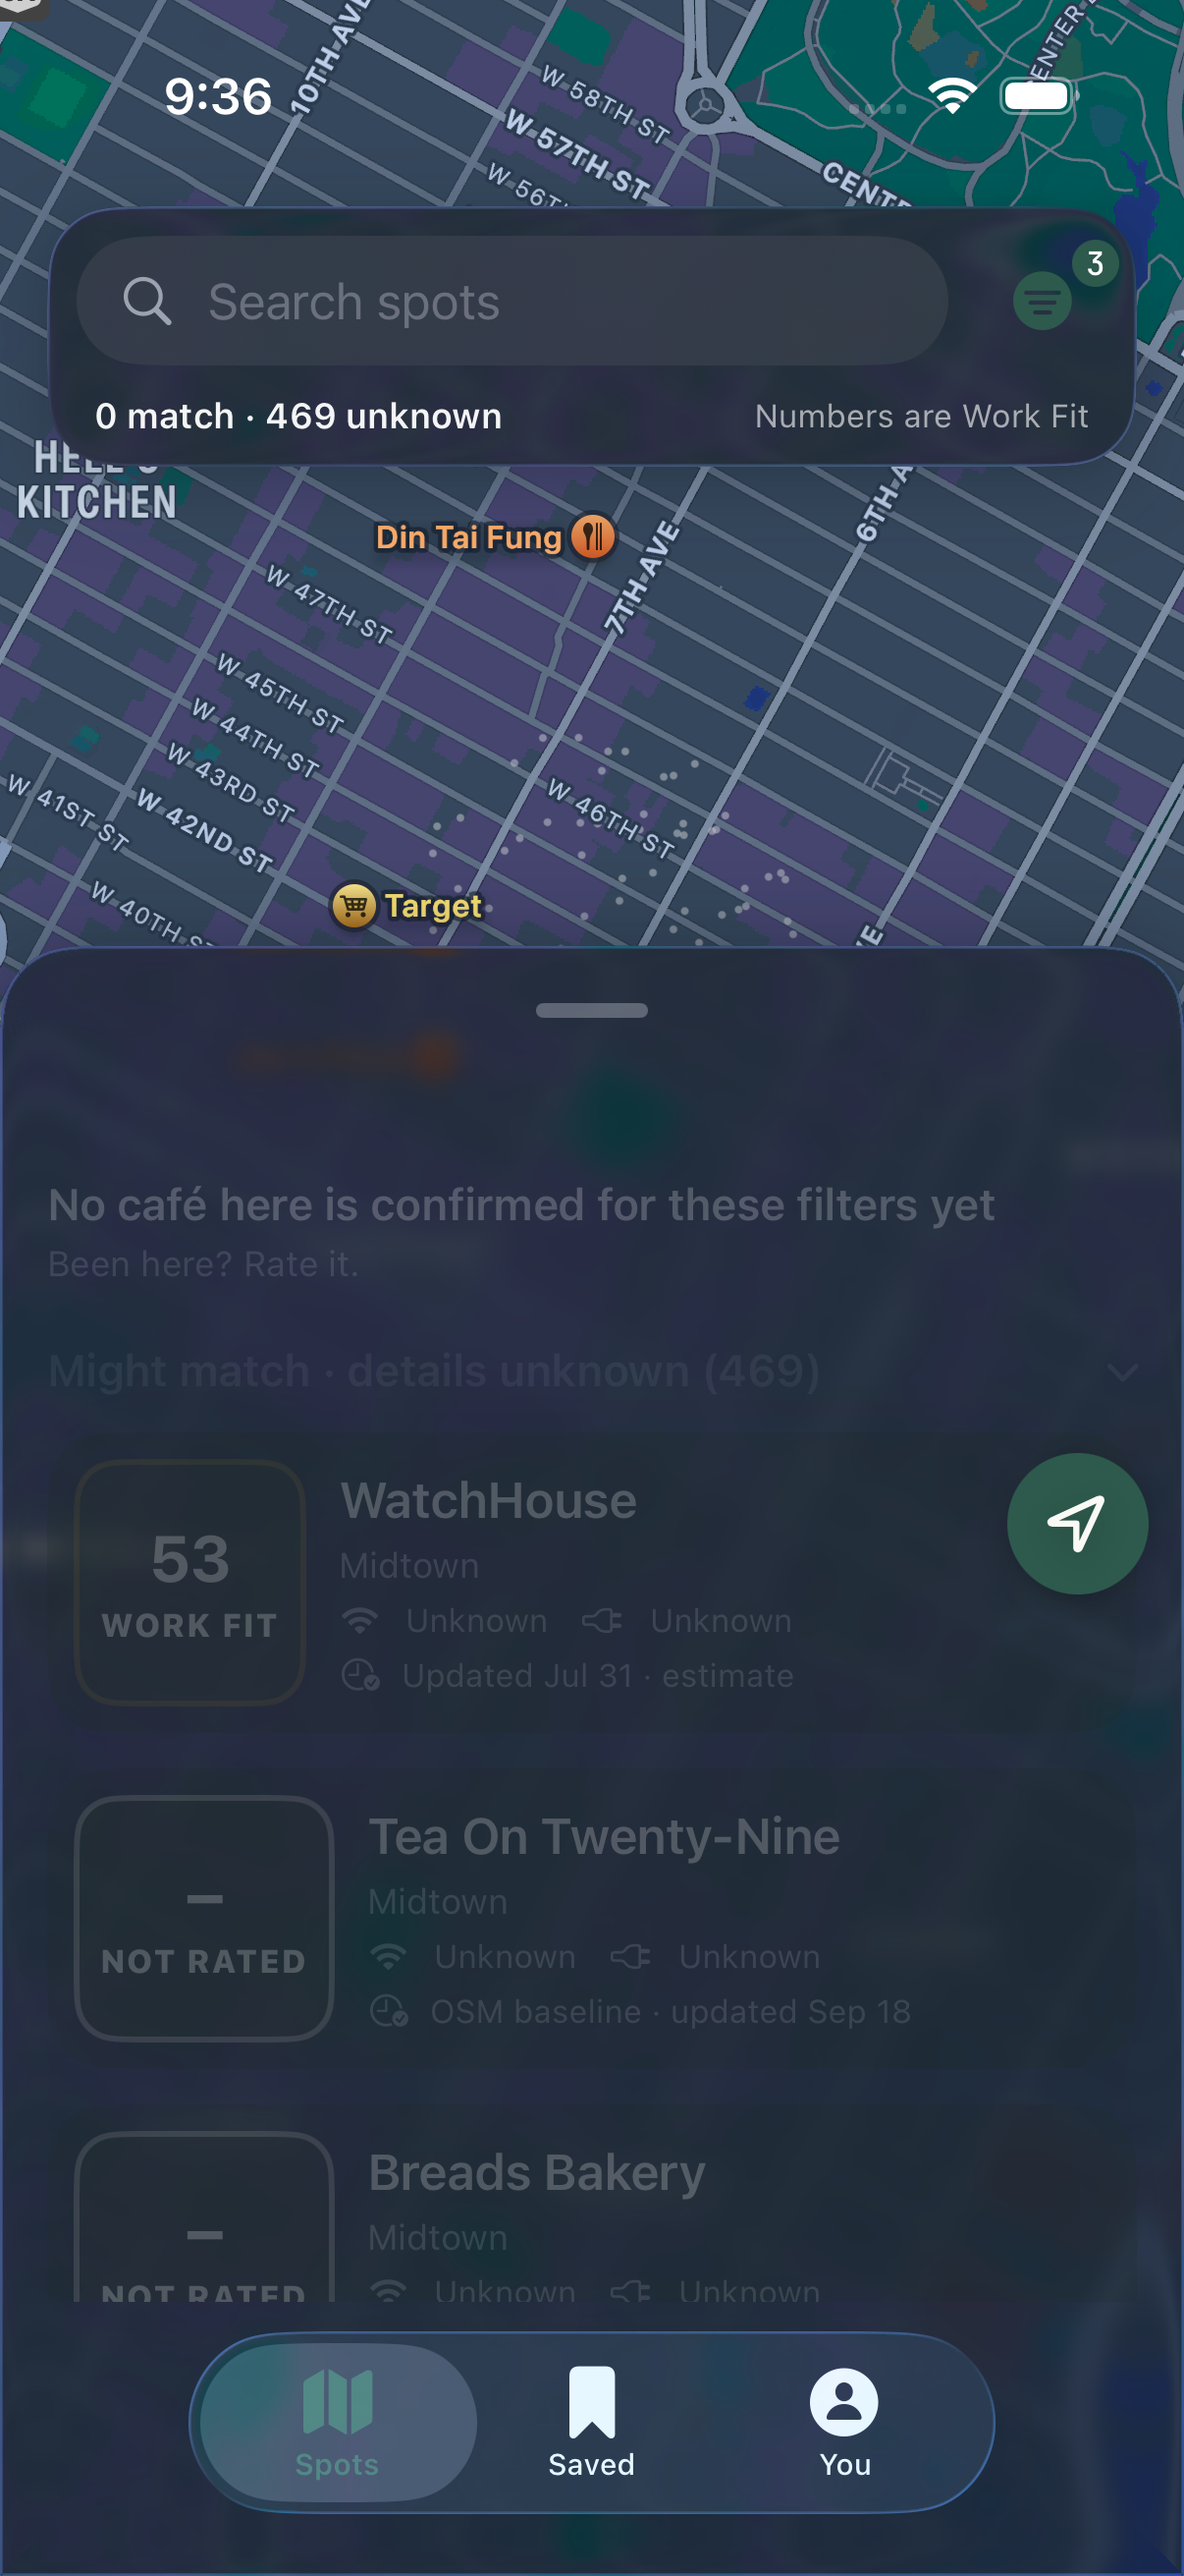
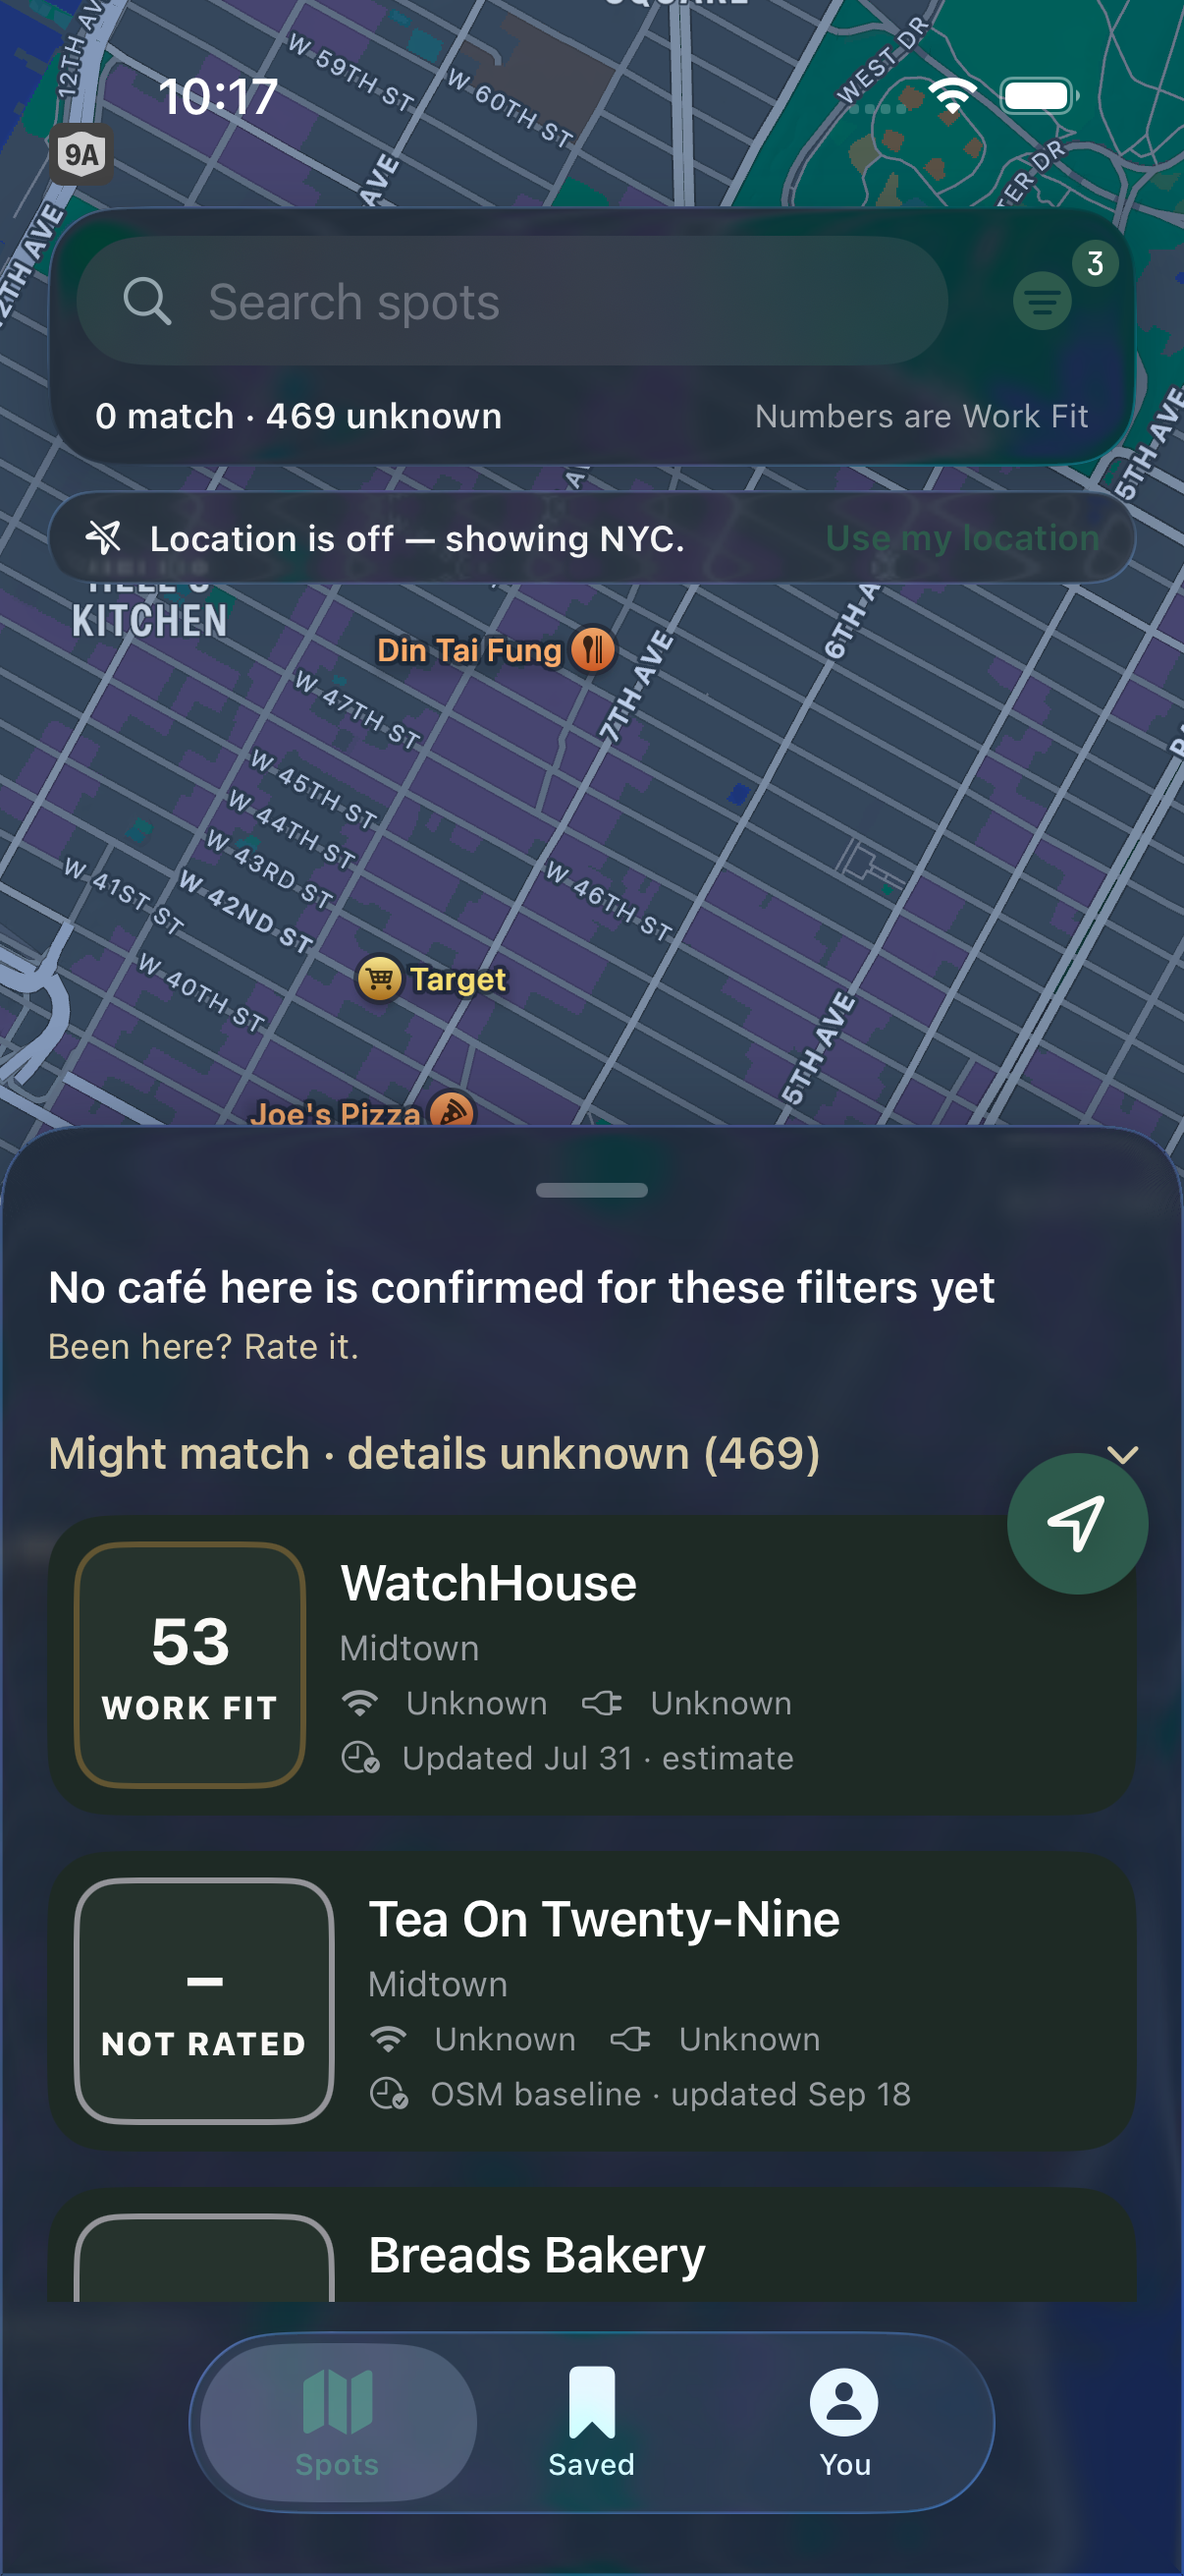
fix: dark-mode contrast on the filtered shelf sections (PR #226 review)
Supervisor review of the PR #226 dark screenshot flagged the shelf
reading uniformly dimmed. Investigated both hypotheses the review raised:

1. Capture timing: retook with wait >= 2s after the filter settled AND
   after the shelf-drag-to-full gesture, at 1s/2s/4s/8s cumulative waits —
   all four were already crisp, ruling out a fade-in capture race.
2. Real contrast bug: `app.performAccessibilityAudit(for: .contrast)`
   (Apple's own audit, already used elsewhere in this suite) DID catch a
   real issue once scoped past two pre-existing, unrelated low-contrast
   elements (the "ENV: Localhost" debug badge and bd#212's "Numbers are
   Work Fit" caption, both exempted the same way the existing
   `testLaunchAccessibilityAudit` exempts its own known strings) — the new
   section headers ("Matches your filters (N)", "Might match · details
   unknown (M)") used the system `.secondary` style, which doesn't clear
   contrast against this app's custom translucent glass card in dark mode.
   Compounding it: the unknown-section toggle was `.disabled(...)`
   whenever the confirmed section was empty (nothing to collapse to) —
   SwiftUI applies an automatic reduced-opacity treatment to a disabled
   control regardless of `.buttonStyle(.plain)` or an explicit
   `.foregroundStyle`, which is exactly the screenshot's scenario (the
   Midtown filter combination that returns 0 confirmed matches).

Fix:
- DiscoveryShelfCard: the four `.foregroundStyle(.secondary)` uses in the
[…]

diff --git a/BrewDeskUITests/FilterUITests.swift b/BrewDeskUITests/FilterUITests.swift
@@ -194,6 +194,56 @@ final class FilterUITests: XCTestCase {
             unknownSection.buttons.matching(NSPredicate(format: "label BEGINSWITH %@", "Fixture Slow WiFi Cafe,")).firstMatch.exists,
             "excluded café leaked into the unknown section"
         )
+
+        // Supervisor follow-up (PR #226 dark-mode review): a screenshot
+        // caught the shelf uniformly dimmed once, and it wasn't clear
+        // whether that was a real `.disabled`/`.opacity` contrast bug on
+        // the new sections or a one-off capture-during-fade-in. Two
+        // independent checks against the CURRENT rendered state, neither
+        // dependent on screenshot timing luck: `.contrast` is Apple's own
+        // audit for exactly this class of bug (already used elsewhere in
+        // this suite — `BrewDeskUITests.testLaunchAccessibilityAudit`); the
+        // luminance stability check is the closest XCUITest gets to
+        // "opacity == 1" directly — no public API reads rendered opacity,
+        // so this compares the SAME element's on-screen pixels moments
+        // apart and asserts they match, which a still-settling fade
+        // (opacity < 1, animating toward 1) would fail.
+        try assertSettledOpacity(unknownSection.buttons.matching(
+            NSPredicate(format: "label BEGINSWITH %@", "Fixture Unknown WiFi Cafe,")
+        ).firstMatch, label: "unknown row title")
+        // "ENV: Localhost" is a pre-existing debug-only badge
+        // (DiscoveryRootView) shown whenever a UI test launches without
+        // pinning production — unrelated to this ticket's sections, and
+        // already low-contrast-by-design on `main`; exempted the same way
+        // `BrewDeskUITests.testLaunchAccessibilityAudit` exempts its own
+        // known pre-existing strings.
+        try app.performAccessibilityAudit(for: .contrast) { issue in
+            // "Numbers are Work Fit" (CafeMapScreen's map-header caption,
+            // bd#212) is the OTHER pre-existing low-contrast element this
+            // audit turns up here — also unrelated to this ticket's
+            // sections, also already this way on `main`.
+            issue.element?.label == "ENV: Localhost" || issue.element?.label == "Numbers are Work Fit"
+        }
+    }
+
+    /// Samples an element's on-screen luminance twice, `settleDelay`
+    /// apart, and asserts they match within `tolerance` — see
+    /// `XCUIElement.averageLuminance()`'s own doc comment for why this
+    /// stands in for "opacity == 1, not still fading" here.
+    @MainActor
+    private func assertSettledOpacity(
+        _ element: XCUIElement, label: String, tolerance: Double = 6,
+        file: StaticString = #filePath, line: UInt = #line
+    ) throws {
+        XCTAssertTrue(element.waitForExistence(timeout: wait), "\(label) missing", file: file, line: line)
+        let first = try XCTUnwrap(element.averageLuminance(), "\(label): couldn't sample luminance", file: file, line: line)
+        Thread.sleep(forTimeInterval: 1.0)
+        let second = try XCTUnwrap(element.averageLuminance(), "\(label): couldn't re-sample luminance", file: file, line: line)
+        XCTAssertEqual(
+            first, second, accuracy: tolerance,
+            "\(label) is still changing brightness a second later (\(first) -> \(second)) — looks like it's still fading in, not settled at full opacity",
+            file: file, line: line
+        )
     }
 
     /// `filterHonestyVenues`' confirmed café is known-SCARCE on outlets, so
@@ -222,11 +272,37 @@ final class FilterUITests: XCTestCase {
 
         // The unknown section is FORCED open (nothing confirmed to hide
         // behind) — no toggle tap needed to see the unknown café.
+        let unknownRow = app.buttons.matching(NSPredicate(format: "label BEGINSWITH %@", "Fixture Unknown WiFi Cafe,")).firstMatch
         XCTAssertTrue(
-            app.buttons.matching(NSPredicate(format: "label BEGINSWITH %@", "Fixture Unknown WiFi Cafe,")).firstMatch
-                .waitForExistence(timeout: wait),
+            unknownRow.waitForExistence(timeout: wait),
             "unknown section should already be expanded when confirmed is empty"
         )
+
+        // Supervisor follow-up (PR #226 dark-mode review): this is EXACTLY
+        // the screenshot's scenario — confirmed empty, the unknown toggle
+        // `.disabled(true)` (nothing to collapse to). That's the one
+        // control in this feature that's deliberately non-default-opacity
+        // in its DISABLED trait; the surrounding TEXT (the empty-state
+        // copy and the unknown row's own title) must still read at full,
+        // settled opacity — see `assertSettledOpacity`'s doc comment.
+        try assertSettledOpacity(
+            confirmedSection.staticTexts["No café here is confirmed for these filters yet"],
+            label: "confirmed-empty header"
+        )
+        try assertSettledOpacity(unknownRow, label: "unknown row title")
+        // "ENV: Localhost" is a pre-existing debug-only badge
+        // (DiscoveryRootView) shown whenever a UI test launches without
+        // pinning production — unrelated to this ticket's sections, and
+        // already low-contrast-by-design on `main`; exempted the same way
+        // `BrewDeskUITests.testLaunchAccessibilityAudit` exempts its own
+        // known pre-existing strings.
+        try app.performAccessibilityAudit(for: .contrast) { issue in
+            // "Numbers are Work Fit" (CafeMapScreen's map-header caption,
+            // bd#212) is the OTHER pre-existing low-contrast element this
+            // audit turns up here — also unrelated to this ticket's
+            // sections, also already this way on `main`.
+            issue.element?.label == "ENV: Localhost" || issue.element?.label == "Numbers are Work Fit"
+        }
     }
 
     @MainActor

diff --git a/Packages/BrewDeskKit/Sources/BrewDeskKit/DiscoveryShelfCard.swift b/Packages/BrewDeskKit/Sources/BrewDeskKit/DiscoveryShelfCard.swift
@@ -554,7 +554,7 @@ struct DiscoveryShelfCard: View {
             } else {
                 Text("Matches your filters (\(model.confirmedVenues.count))")
                     .font(.subheadline.bold())
-                    .foregroundStyle(.secondary)
+                    .foregroundStyle(BrewDeskPalette.secondaryText)
                     .accessibilityAddTraits(.isHeader)
                 ForEach(model.confirmedVenues) { venue in
                     venueButton(venue, fillsWidth: true)
@@ -583,7 +583,7 @@ struct DiscoveryShelfCard: View {
                 .font(.subheadline.weight(.semibold))
             Text("Been here? Rate it.")
                 .font(.caption)
-                .foregroundStyle(.secondary)
+                .foregroundStyle(BrewDeskPalette.secondaryText)
         }
         .frame(maxWidth: .infinity, alignment: .leading)
     }
@@ -593,22 +593,33 @@ struct DiscoveryShelfCard: View {
         if !model.unknownVenues.isEmpty {
             VStack(alignment: .leading, spacing: 12) {
                 Button {
+                    // bd#222 (supervisor follow-up, PR #226 dark-mode
+                    // review): a no-op tap when there's nothing to collapse
+                    // TO, rather than `.disabled(...)` — SwiftUI applies an
+                    // automatic reduced-opacity treatment to a disabled
+                    // control regardless of `.buttonStyle(.plain)` or an
+                    // explicit `.foregroundStyle`, which read as the whole
+                    // row being dimmed (caught by
+                    // `.performAccessibilityAudit(for: .contrast)`, added
+                    // alongside this fix). The row stays fully interactive
+                    // and fully legible; it just has nothing to do while
+                    // the confirmed section is empty.
+                    guard !model.confirmedVenues.isEmpty else { return }
                     FilterUnknownSectionMemory.session.isExpanded.toggle()
                 } label: {
                     HStack {
                         Text("Might match · details unknown (\(model.unknownVenues.count))")
                             .font(.subheadline.bold())
-                            .foregroundStyle(.secondary)
+                            .foregroundStyle(BrewDeskPalette.secondaryText)
                         Spacer(minLength: 8)
                         Image(systemName: "chevron.right")
                             .font(.caption.bold())
-                            .foregroundStyle(.secondary)
+                            .foregroundStyle(BrewDeskPalette.secondaryText)
                             .rotationEffect(.degrees(isUnknownSectionExpanded ? 90 : 0))
                     }
                     .contentShape(Rectangle())
                 }
                 .buttonStyle(.plain)
-                .disabled(model.confirmedVenues.isEmpty)
                 .accessibilityAddTraits(.isHeader)
                 .accessibilityIdentifier("filter-unknown-toggle")
                 .accessibilityValue(isUnknownSectionExpanded ? "Expanded" : "Collapsed")

diff --git a/BrewDeskUITests/UITestHelpers.swift b/BrewDeskUITests/UITestHelpers.swift
@@ -85,6 +85,57 @@ extension XCUIApplication {
 }
 
 extension XCUIElement {
+    /// brewdesk#222 (supervisor follow-up): XCUITest has no public API for
+    /// an element's rendered opacity — the practical proxy is "does this
+    /// element's on-screen pixels look the same a moment after it first
+    /// presented as they do once fully settled". Averages luminance over
+    /// the element's own frame (converted from POINTS to the screenshot's
+    /// native PIXEL space via the window's own frame) in a freshly taken
+    /// screenshot. A text element mid-fade (opacity < 1, still animating
+    /// toward 1) reads measurably darker against a dark background — or
+    /// lighter against a light one — than its settled value; comparing two
+    /// samples taken `settleDelay` apart catches that without needing a
+    /// theme-specific absolute brightness threshold.
+    func averageLuminance() -> Double? {
+        guard exists, !frame.isEmpty else { return nil }
+        let screenshot = XCUIScreen.main.screenshot().image
+        guard let windowFrame = XCUIApplication().windows.firstMatch.frame as CGRect?,
+              windowFrame.width > 0
+        else { return nil }
+        let scale = screenshot.size.width / windowFrame.width
+        let pixelRect = CGRect(
+            x: frame.origin.x * scale, y: frame.origin.y * scale,
+            width: frame.width * scale, height: frame.height * scale
+        )
+        guard let cgImage = screenshot.cgImage,
+              let cropped = cgImage.cropping(to: pixelRect)
+        else { return nil }
+        return Self.averageLuminance(of: cropped)
+    }
+
+    private static func averageLuminance(of cgImage: CGImage) -> Double? {
+        let width = cgImage.width
+        let height = cgImage.height
+        guard width > 0, height > 0 else { return nil }
+        var pixels = [UInt8](repeating: 0, count: width * height * 4)
+        guard let context = CGContext(
+            data: &pixels, width: width, height: height, bitsPerComponent: 8,
+            bytesPerRow: width * 4, space: CGColorSpaceCreateDeviceRGB(),
+            bitmapInfo: CGImageAlphaInfo.premultipliedLast.rawValue
+        ) else { return nil }
+        context.draw(cgImage, in: CGRect(x: 0, y: 0, width: width, height: height))
+        var total = 0.0
+        let count = width * height
+        for i in 0..<count {
+            let offset = i * 4
+            let r = Double(pixels[offset]), g = Double(pixels[offset + 1]), b = Double(pixels[offset + 2])
+            total += (0.299 * r + 0.587 * g + 0.114 * b)
+        }
+        return total / Double(count)
+    }
+}
+
+extension XCUIElement {
     /// `.exists` can be true while a sheet-dismiss animation is still
     /// settling underneath (brewdesk#117: venue detail is a sheet over
     /// Spots now) — the element is in the hierarchy but its frame hasn't
